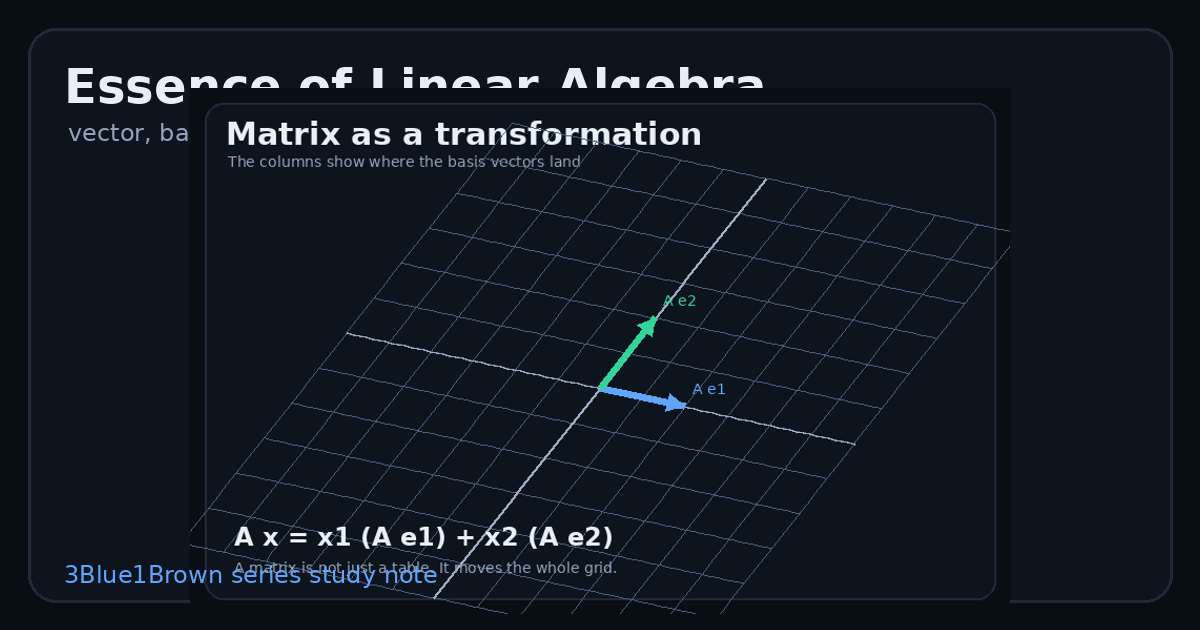
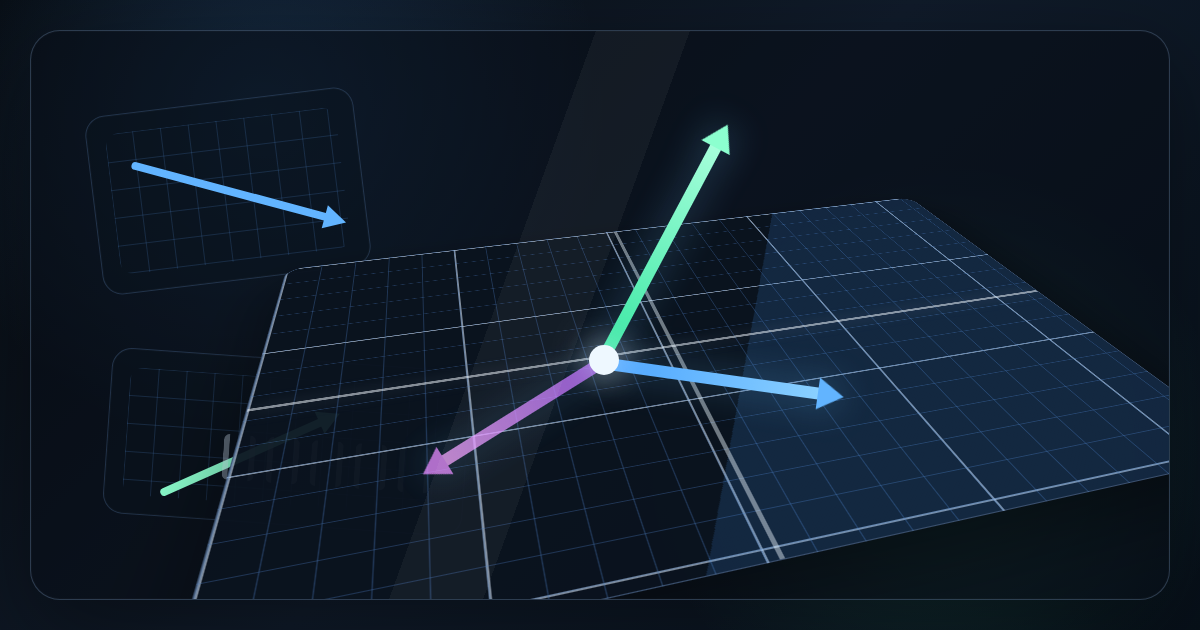
Fix 3B1B post preview image

diff --git a/_posts/math/study/2026-07-10-3blue1brown-linear-algebra-essence.md b/_posts/math/study/2026-07-10-3blue1brown-linear-algebra-essence.md
@@ -1,7 +1,7 @@
 ---
 title: "[Linear Algebra] 3Blue1Brown 선형대수학의 본질 정리"
 date: 2026-07-10 16:21:54 +0900
-last_modified_at: 2026-07-10 18:49:56 +0900
+last_modified_at: 2026-07-15 22:20:55 +0900
 categories: [Math, Study]
 tags: [linear-algebra, 3blue1brown, vector, matrix, determinant, eigenvalue, eigenvector, basis, dot-product, cross-product, cramer-rule]
 description: "3Blue1Brown의 선형대수학의 본질 시리즈를 바탕으로 벡터, 선형결합, 기저, 행렬, 행렬곱, determinant, 역행렬, 내적, 외적, 고유값, 고유벡터, 추상 벡터공간을 시각적 관점에서 정리한다."
